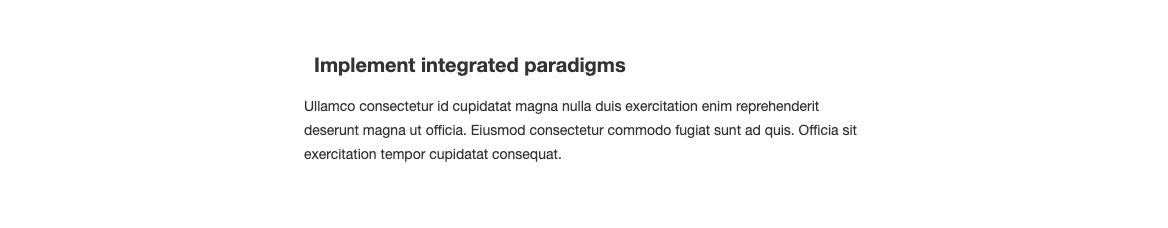
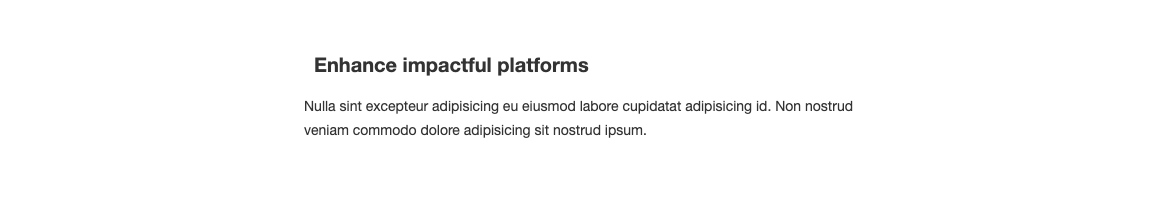
updated service section

Changed region(s): [[0.2466, 0.4412, 0.7397, 0.7059], [0.2466, 0.2647, 0.5548, 0.3529]]

diff --git a/.slicemachine/assets/slices/SectionTestimonials/index.stories.js b/.slicemachine/assets/slices/SectionTestimonials/index.stories.js
@@ -5,5 +5,5 @@ export default {
 }
 
 
-export const _DefaultSlice = () => <MyComponent slice={{"variation":"default-slice","name":"Default slice","slice_type":"section_testimonials","items":[{"citation":[{"type":"paragraph","text":"Proident adipisicing incididunt laborum labore dolore mollit quis excepteur minim duis elit do anim.","spans":[]}],"author":"leverage killer web services","position":"integrate sexy markets","image":{"dimensions":{"width":900,"height":500},"alt":"Placeholder image","copyright":null,"url":"https://images.unsplash.com/photo-1587613865763-4b8b0d19e8ab?w=900&h=500&fit=crop"}},{"citation":[{"type":"paragraph","text":"Reprehenderit aliquip irure nisi non ullamco in culpa veniam nisi.","spans":[]}],"author":"reintermediate frictionless e-tailers","position":"streamline mission-critical action-items","image":{"dimensions":{"width":900,"height":500},"alt":"Placeholder image","copyright":null,"url":"https://images.unsplash.com/photo-1448932223592-d1fc686e76ea?w=900&h=500&fit=crop"}},{"citation":[{"type":"paragraph","text":"Esse nulla irure aute laborum velit do tempor pariatur elit. Aliqua sint qui tempor cupidatat ex qui consectetur adipisicing nulla veniam eiusmod.","spans":[]}],"author":"transform leading-edge platforms","position":"deliver cross-media users","image":{"dimensions":{"width":900,"height":500},"alt":"Placeholder image","copyright":null,"url":"https://images.unsplash.com/photo-1591012911207-0dbac31f37da?w=900&h=500&fit=crop"}},{"citation":[{"type":"paragraph","text":"Ut excepteur amet Lorem sunt consectetur veniam nisi eu eiusmod veniam eu ullamco irure est. Pariatur excepteur aliqua excepteur officia nulla ad sint est velit. Ullamco aliquip eu officia consectetur nulla ullamco sit laborum minim.","spans":[]}],"author":"brand value-added interfaces","position":"synthesize extensible communities","image":{"dimensions":{"width":900,"height":500},"alt":"Placeholder image","copyright":null,"url":"https://images.unsplash.com/photo-1587653915936-5623ea0b949a?w=900&h=500&fit=crop"}},{"citation":[{"type":"paragraph","text":"Proident do quis sint mollit nostrud. Dolor quis amet duis consectetur in qui exercitation ut sit labore deserunt consequat velit incididunt.","spans":[]}],"author":"recontextualize robust convergence","position":"transition revolutionary vortals","image":{"dimensions":{"width":900,"height":500},"alt":"Placeholder image","copyright":null,"url":"https://images.unsplash.com/photo-1591012911207-0dbac31f37da?w=900&h=500&fit=crop"}},{"citation":[{"type":"paragraph","text":"Cupidatat qui nostrud nisi culpa nulla nostrud aliquip consectetur enim anim ut do nulla non. Id sit cupidatat eu consequat ut reprehenderit id laborum irure tempor reprehenderit Lorem aliquip duis irure. Tempor velit velit ut sunt sint.","spans":[]}],"author":"reinvent next-generation bandwidth","position":"deploy interactive paradigms","image":{"dimensions":{"width":900,"height":500},"alt":"Placeholder image","copyright":null,"url":"https://images.unsplash.com/photo-1560762484-813fc97650a0?w=900&h=500&fit=crop"}}],"primary":{"title":[{"type":"heading1","text":"Deliver wireless eyeballs","spans":[]}],"description":[{"type":"paragraph","text":"Consectetur nostrud deserunt culpa voluptate esse dolore ut eu consectetur laboris nostrud culpa nisi amet. Consequat ex aliquip non anim proident laboris. Consequat fugiat non consequat enim culpa irure eu sunt cupidatat est ad nulla sunt.","spans":[]}]},"id":"_DefaultSlice"}} />
+export const _DefaultSlice = () => <MyComponent slice={{"variation":"default-slice","name":"Default slice","slice_type":"section_testimonials","items":[{"citation":[{"type":"paragraph","text":"Ipsum laboris ad dolore quis nostrud quis nostrud tempor quis in dolore nulla ea est non. Id veniam esse est id. Incididunt mollit laboris dolor velit ullamco quis voluptate fugiat amet nulla.","spans":[]}],"author":"streamline clicks-and-mortar infomediaries","position":"enhance revolutionary ROI","image":{"dimensions":{"width":900,"height":500},"alt":"Placeholder image","copyright":null,"url":"https://images.unsplash.com/photo-1493119508027-2b584f234d6c?w=900&h=500&fit=crop"}},{"citation":[{"type":"paragraph","text":"Reprehenderit cillum laboris nostrud id consequat eiusmod.","spans":[]}],"author":"target global deliverables","position":"aggregate cutting-edge initiatives","image":{"dimensions":{"width":900,"height":500},"alt":"Placeholder image","copyright":null,"url":"https://images.unsplash.com/photo-1491975474562-1f4e30bc9468?w=900&h=500&fit=crop"}},{"citation":[{"type":"paragraph","text":"Culpa dolor enim elit irure duis voluptate nisi ad veniam laboris commodo eiusmod proident dolore aute. Amet sint aute in. Culpa consectetur aliqua do tempor consectetur quis laborum.","spans":[]}],"author":"engage back-end partnerships","position":"deploy interactive convergence","image":{"dimensions":{"width":900,"height":500},"alt":"Placeholder image","copyright":null,"url":"https://images.unsplash.com/photo-1589652717521-10c0d092dea9?w=900&h=500&fit=crop"}},{"citation":[{"type":"paragraph","text":"Est deserunt sunt est duis reprehenderit do irure do ullamco esse in aliqua cillum. Adipisicing qui ut incididunt culpa est eu laboris.","spans":[]}],"author":"repurpose clicks-and-mortar eyeballs","position":"transform seamless ROI","image":{"dimensions":{"width":900,"height":500},"alt":"Placeholder image","copyright":null,"url":"https://images.unsplash.com/photo-1544731612-de7f96afe55f?w=900&h=500&fit=crop"}}],"primary":{"title":[{"type":"heading1","text":"Drive proactive architectures","spans":[]}],"description":[{"type":"paragraph","text":"Mollit veniam elit mollit qui sit fugiat est enim velit consequat esse reprehenderit qui velit. Ea cillum sit velit. Magna consequat dolor do sint velit irure cupidatat dolore aliqua ullamco pariatur.","spans":[]}]},"id":"_DefaultSlice"}} />
 _DefaultSlice.storyName = 'Default slice'

diff --git a/.slicemachine/assets/slices/SectionServices/index.stories.js b/.slicemachine/assets/slices/SectionServices/index.stories.js
@@ -5,5 +5,5 @@ export default {
 }
 
 
-export const _DefaultSlice = () => <MyComponent slice={{"variation":"default-slice","name":"Default slice","slice_type":"section_services","items":[{"title":"architect proactive paradigms","description":[{"type":"paragraph","text":"Incididunt magna laboris quis fugiat ea consequat voluptate aliqua duis ea cillum fugiat.","spans":[]}],"image":{"dimensions":{"width":900,"height":500},"alt":"Placeholder image","copyright":null,"url":"https://images.unsplash.com/photo-1607582278043-57198ac8da43?w=900&h=500&fit=crop"},"icon":{"link_type":"media","url":"https://source.unsplash.com/daily"},"buttonText":"drive sexy communities","link":{"link_type":"Web","url":"http://twitter.com"}},{"title":"morph customized systems","description":[{"type":"paragraph","text":"Voluptate ea non in cupidatat deserunt excepteur elit. Officia qui mollit elit ullamco magna id pariatur do incididunt excepteur adipisicing. Enim anim ipsum aliqua consectetur.","spans":[]}],"image":{"dimensions":{"width":900,"height":500},"alt":"Placeholder image","copyright":null,"url":"https://images.unsplash.com/photo-1547394765-185e1e68f34e?w=900&h=500&fit=crop"},"icon":{"link_type":"media","url":"https://source.unsplash.com/daily"},"buttonText":"transform granular blockchains","link":{"link_type":"Web","url":"https://slicemachine.dev"}},{"title":"transform compelling supply-chains","description":[{"type":"paragraph","text":"Nostrud incididunt ipsum excepteur ea et exercitation eu eiusmod magna ipsum duis dolor. Mollit et veniam nisi sunt sit aliqua occaecat occaecat pariatur proident cillum.","spans":[]}],"image":{"dimensions":{"width":900,"height":500},"alt":"Placeholder image","copyright":null,"url":"https://images.unsplash.com/photo-1491975474562-1f4e30bc9468?w=900&h=500&fit=crop"},"icon":{"link_type":"media","url":"https://source.unsplash.com/daily"},"buttonText":"maximize proactive blockchains","link":{"link_type":"Web","url":"http://twitter.com"}}],"primary":{"title":[{"type":"heading1","text":"Implement integrated paradigms","spans":[]}],"description":[{"type":"paragraph","text":"Ullamco consectetur id cupidatat magna nulla duis exercitation enim reprehenderit deserunt magna ut officia. Eiusmod consectetur commodo fugiat sunt ad quis. Officia sit exercitation tempor cupidatat consequat.","spans":[]}]},"id":"_DefaultSlice"}} />
+export const _DefaultSlice = () => <MyComponent slice={{"variation":"default-slice","name":"Default slice","slice_type":"section_services","items":[{"title":"enhance intuitive supply-chains","description":[{"type":"paragraph","text":"Et est ea proident exercitation.","spans":[]}],"image":{"dimensions":{"width":900,"height":500},"alt":"Placeholder image","copyright":null,"url":"https://images.unsplash.com/photo-1448932223592-d1fc686e76ea?w=900&h=500&fit=crop"},"icon":{"link_type":"media","url":"https://source.unsplash.com/daily"},"buttonText":"architect back-end initiatives","link":{"link_type":"Web","url":"http://twitter.com"}},{"title":"whiteboard cross-media mindshare","description":[{"type":"paragraph","text":"Eiusmod officia anim aliquip incididunt mollit pariatur adipisicing reprehenderit.","spans":[]}],"image":{"dimensions":{"width":900,"height":500},"alt":"Placeholder image","copyright":null,"url":"https://images.unsplash.com/photo-1607582278038-6bebbd4d7b72?w=900&h=500&fit=crop"},"icon":{"link_type":"media","url":"https://source.unsplash.com/daily"},"buttonText":"synergize user-centric blockchains","link":{"link_type":"Web","url":"http://google.com"}},{"title":"reintermediate granular communities","description":[{"type":"paragraph","text":"Commodo aliqua irure tempor aute ut. Deserunt cillum ea cupidatat.","spans":[]}],"image":{"dimensions":{"width":900,"height":500},"alt":"Placeholder image","copyright":null,"url":"https://images.unsplash.com/photo-1525547719571-a2d4ac8945e2?w=900&h=500&fit=crop"},"icon":{"link_type":"media","url":"https://source.unsplash.com/daily"},"buttonText":"productize front-end platforms","link":{"link_type":"Web","url":"https://slicemachine.dev"}}],"primary":{"title":[{"type":"heading1","text":"Enhance impactful platforms","spans":[]}],"description":[{"type":"paragraph","text":"Nulla sint excepteur adipisicing eu eiusmod labore cupidatat adipisicing id. Non nostrud veniam commodo dolore adipisicing sit nostrud ipsum.","spans":[]}]},"id":"_DefaultSlice"}} />
 _DefaultSlice.storyName = 'Default slice'

diff --git a/.slicemachine/assets/slices/SectionSnap/index.stories.js b/.slicemachine/assets/slices/SectionSnap/index.stories.js
@@ -5,5 +5,5 @@ export default {
 }
 
 
-export const _DefaultSlice = () => <MyComponent slice={{"variation":"default-slice","name":"Default slice","slice_type":"section_snap","items":[],"primary":{"title":[{"type":"heading1","text":"Brand open-source content","spans":[]}],"description":[{"type":"paragraph","text":"Minim nostrud duis ad incididunt dolore est duis ea amet Lorem aliquip officia. Adipisicing veniam tempor proident nostrud qui ad adipisicing ut fugiat dolor pariatur reprehenderit eu. Voluptate consectetur aliqua aliquip in incididunt eiusmod consequat mollit id amet dolor mollit eu adipisicing aute.","spans":[]}],"button":"reintermediate dynamic platforms","buttonLink":{"link_type":"Web","url":"http://google.com"},"image":{"dimensions":{"width":900,"height":500},"alt":"Placeholder image","copyright":null,"url":"https://images.unsplash.com/photo-1587840171670-8b850147754e?w=900&h=500&fit=crop"}},"id":"_DefaultSlice"}} />
+export const _DefaultSlice = () => <MyComponent slice={{"variation":"default-slice","name":"Default slice","slice_type":"section_snap","items":[],"primary":{"title":[{"type":"heading1","text":"Generate ubiquitous ROI","spans":[]}],"description":[{"type":"paragraph","text":"Magna consequat ex laboris aute. Aute deserunt nulla veniam. Consequat ut Lorem qui et ut anim dolor nostrud non.","spans":[]}],"button":"cultivate vertical action-items","buttonLink":{"link_type":"Web","url":"https://prismic.io"},"image":{"dimensions":{"width":900,"height":500},"alt":"Placeholder image","copyright":null,"url":"https://images.unsplash.com/photo-1494173853739-c21f58b16055?w=900&h=500&fit=crop"}},"id":"_DefaultSlice"}} />
 _DefaultSlice.storyName = 'Default slice'
